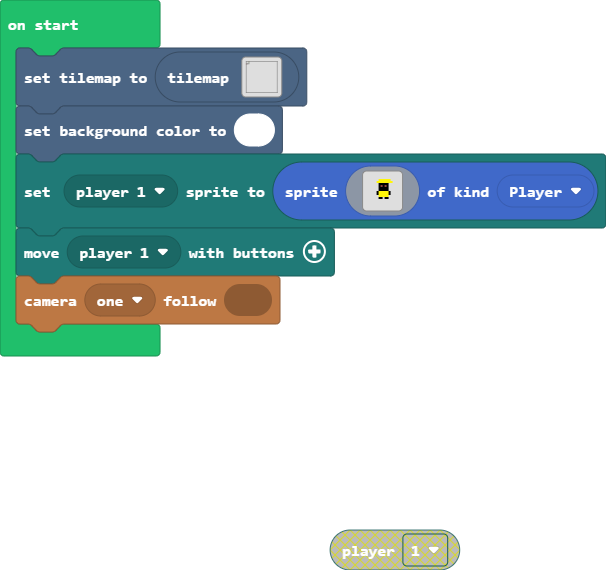
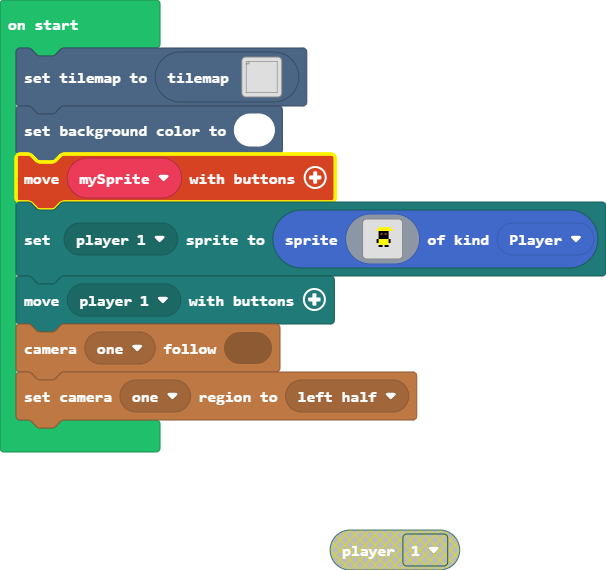
Update main.blocks, main.ts

diff --git a/main.ts b/main.ts
@@ -1,5 +1,7 @@
+let mySprite: Sprite = null
 tiles.setCurrentTilemap(tilemap`level1`)
 scene.setBackgroundColor(1)
+controller.moveSprite(mySprite)
 mp.setPlayerSprite(mp.playerSelector(mp.PlayerNumber.One), sprites.create(img`
     . . . . . . . . . . . . . . . . 
     . . . . . . . . . . . . . . . . 
@@ -20,3 +22,4 @@ mp.setPlayerSprite(mp.playerSelector(mp.PlayerNumber.One), sprites.create(img`
     `, SpriteKind.Player))
 mp.moveWithButtons(mp.playerSelector(mp.PlayerNumber.One))
 splitScreen.cameraFollowSprite(splitScreen.Camera.Camera1, null)
+splitScreen.setCameraRegion(splitScreen.Camera.Camera1, splitScreen.CameraRegion.VerticalLeftHalf)
